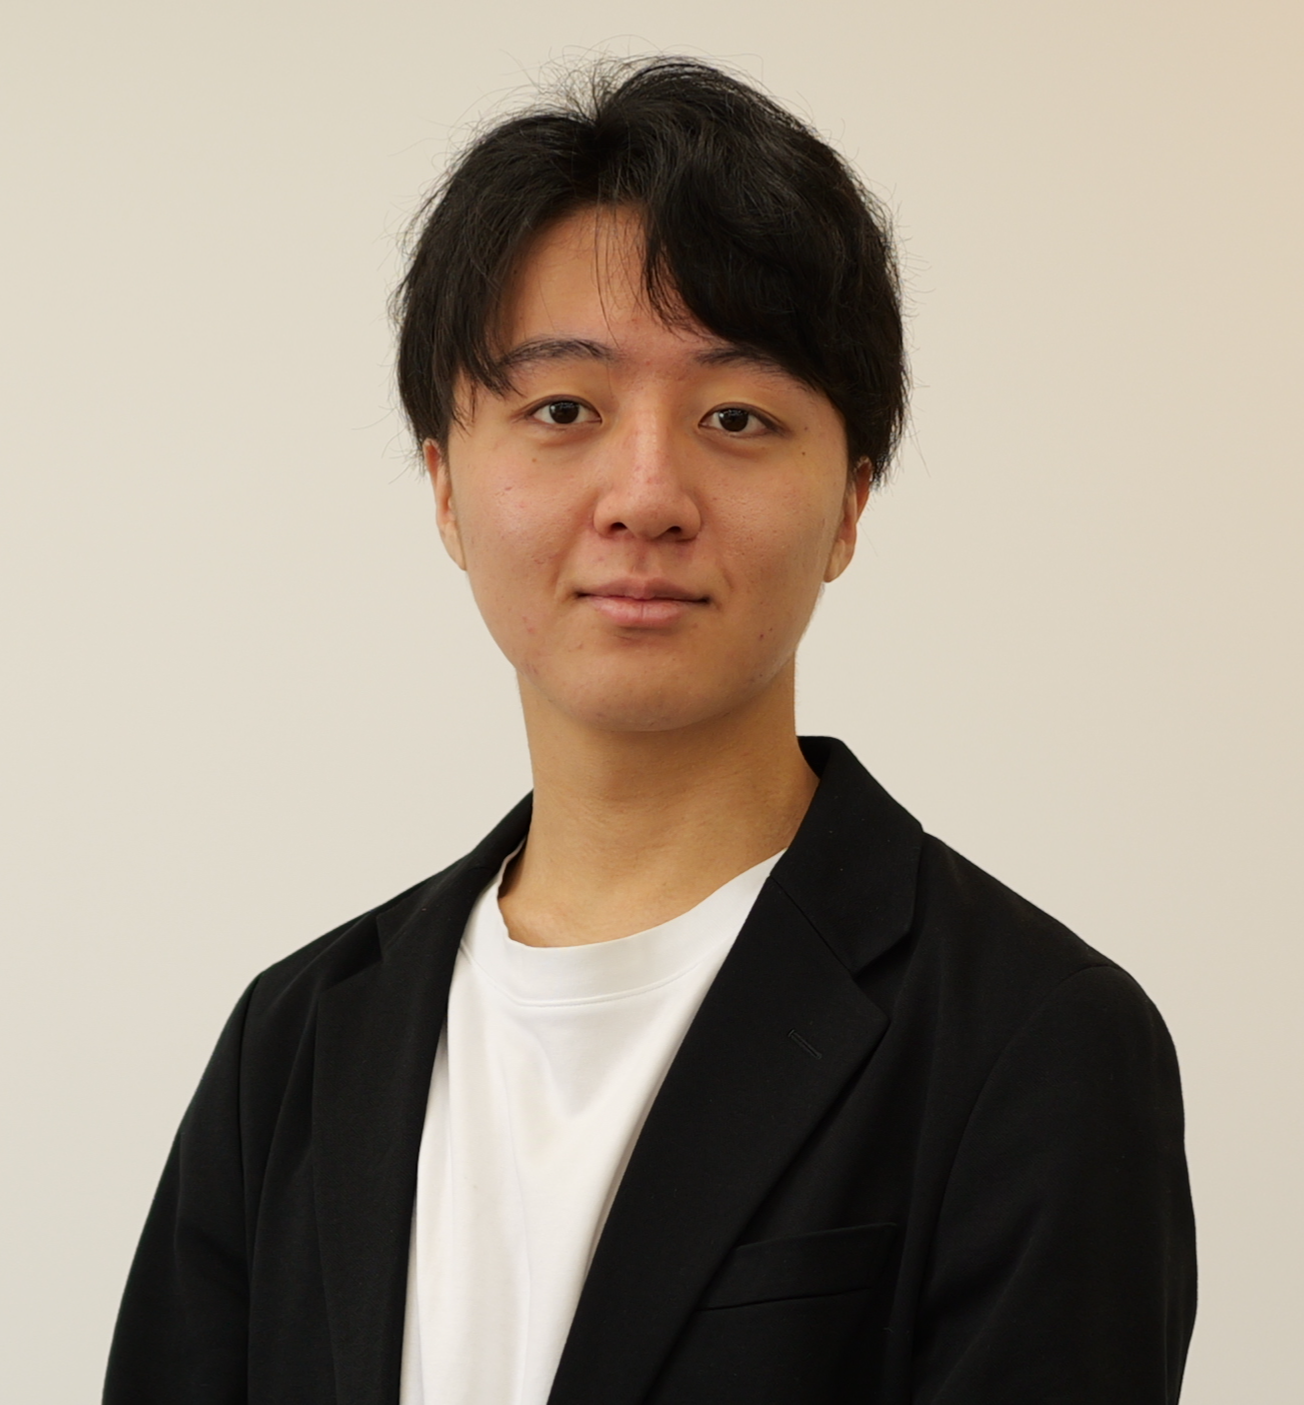
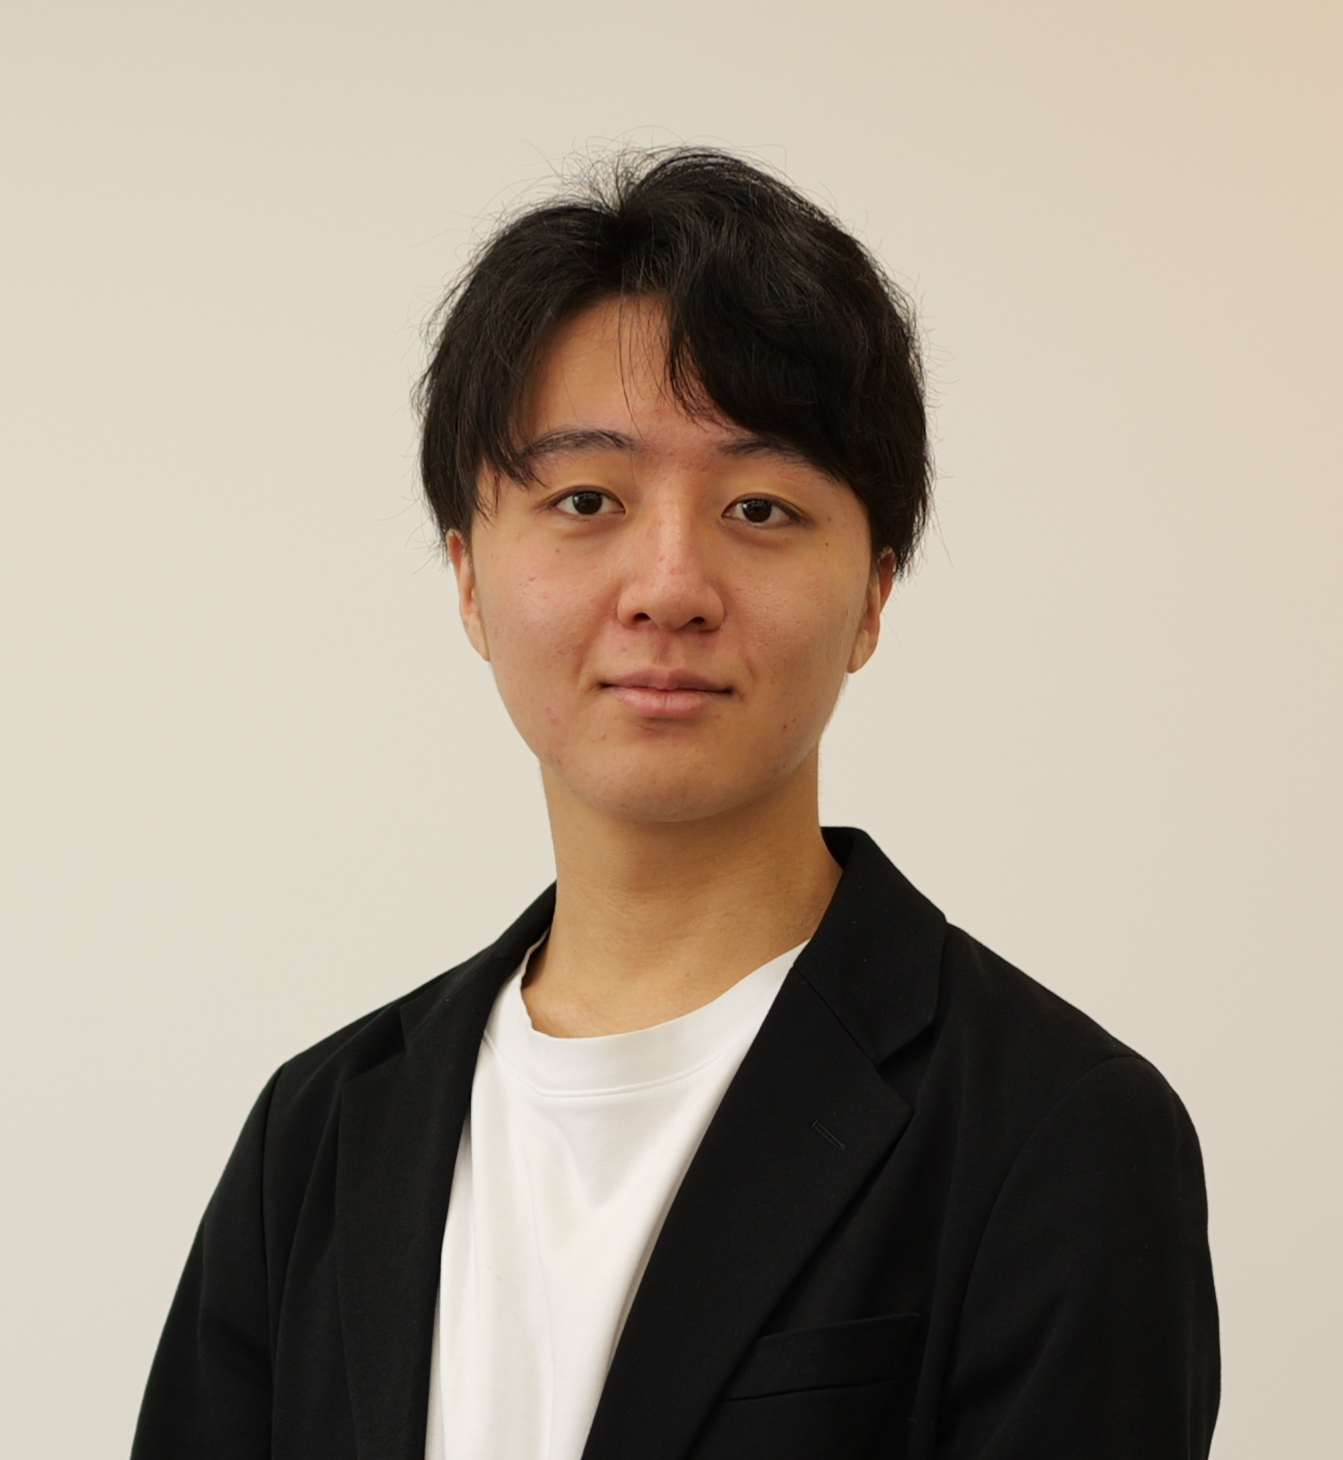
隠しコマンド追加

Changed region(s): [[0.0613, 0.0306, 0.9202, 1.0]]

diff --git a/src/components/Member/StaffModal.jsx b/src/components/Member/StaffModal.jsx
@@ -1,8 +1,58 @@
 // src/components/Member/StaffModal.jsx
-import React from 'react';
+import React, { useEffect, useState } from 'react';
 import './StaffModal.css';
 
 const StaffModal = ({ staff, onClose }) => {
+  const [secretUnlocked, setSecretUnlocked] = useState(false);
+  const [keySequence, setKeySequence] = useState([]);
+  
+  // 隠しコマンド: ↑↑↓↓←→←→NR
+  const secretCode = [
+    'ArrowUp', 'ArrowUp', 'ArrowDown', 'ArrowDown',
+    'ArrowLeft', 'ArrowRight', 'ArrowLeft', 'ArrowRight',
+    'KeyN', 'KeyR'
+  ];
+
+  useEffect(() => {
+    // 中楯さん（id: 1）のモーダルの時のみキーボードイベントリスナーを追加
+    if (staff && staff.id === 1) {
+      const handleKeyDown = (event) => {
+        const newSequence = [...keySequence, event.code];
+        
+        // シーケンスが長すぎる場合は先頭を削除
+        if (newSequence.length > secretCode.length) {
+          newSequence.shift();
+        }
+        
+        setKeySequence(newSequence);
+        
+        // 隠しコマンドと一致するかチェック
+        if (newSequence.length === secretCode.length) {
+          const isMatch = newSequence.every((key, index) => key === secretCode[index]);
+          if (isMatch) {
+            setSecretUnlocked(true);
+            // 成功時の効果音やアニメーションをここに追加可能
+          }
+        }
+      };
+
+      document.addEventListener('keydown', handleKeyDown);
+      
+      // クリーンアップ関数
+      return () => {
+        document.removeEventListener('keydown', handleKeyDown);
+      };
+    }
+  }, [staff, keySequence]);
+
+  // モーダルが閉じられる時やスタッフが変更される時にリセット
+  useEffect(() => {
+    return () => {
+      setSecretUnlocked(false);
+      setKeySequence([]);
+    };
+  }, [staff]);
+
   if (!staff) return null;
 
   const formatDescription = (desc) => {
@@ -37,6 +87,16 @@ const StaffModal = ({ staff, onClose }) => {
     });
 
     return <div>{elements}</div>;
+  };
+
+  // 表示する説明文を決定
+  const getDisplayDescription = () => {
+    // 中楯さん（id: 1）で隠しコマンドが有効な場合のみ longDescription を表示
+    if (staff.id === 1 && secretUnlocked && staff.longDescription) {
+      return staff.longDescription;
+    }
+    // それ以外は通常の description を表示
+    return staff.description;
   };
 
   return (
@@ -78,8 +138,54 @@ const StaffModal = ({ staff, onClose }) => {
             )}
 
             <div className="staff-modal-description">
-              {formatDescription(staff.longDescription || staff.description)}
+              {formatDescription(getDisplayDescription())}
             </div>
+
+            {/* 隠しコマンド成功時のGO!ボタン表示 */}
+            {staff.id === 1 && secretUnlocked && (
+              <div style={{ 
+                marginTop: '20px', 
+                textAlign: 'center'
+              }}>
+                <style>
+                  {`
+                    @keyframes flashingButton {
+                      0% { opacity: 1; }
+                      50% { opacity: 0.3; }
+                      100% { opacity: 1; }
+                    }
+                  `}
+                </style>
+                <button 
+                  onClick={() => window.open('http://ginyu.fuis.u-fukui.ac.jp/members/2024/nakadate/', '_blank')}
+                  style={{
+                    backgroundColor: 'black',
+                    color: '#4caf50',
+                    border: 'none',
+                    padding: '20px 50px',
+                    borderRadius: '25px',
+                    fontSize: '24px',
+                    fontWeight: 'bold',
+                    cursor: 'pointer',
+                    transition: 'all 0.3s ease',
+                    boxShadow: '0 3px 10px rgba(0, 0, 0, 0.3)',
+                    animation: 'flashingButton 1s infinite'
+                  }}
+                  onMouseOver={(e) => {
+                    e.target.style.backgroundColor = '#333333';
+                    e.target.style.transform = 'translateY(-2px)';
+                    e.target.style.animation = 'none';
+                  }}
+                  onMouseOut={(e) => {
+                    e.target.style.backgroundColor = 'black';
+                    e.target.style.transform = 'translateY(0)';
+                    e.target.style.animation = 'flashingButton 1s infinite';
+                  }}
+                >
+                  GO!
+                </button>
+              </div>
+            )}
           </div>
         </div>
 

diff --git a/src/pages/CompanyPage.jsx b/src/pages/CompanyPage.jsx
@@ -36,7 +36,7 @@ const CompanyPage = () => {
   const characterRef = useRef(null);
   const newsRef = useRef(null);
   const recruitRef = useRef(null); // refは念のため残しておく
-  {/*const contactRef = useRef(null);*/ }
+  const contactRef = useRef(null); // Contactのref復活
 
   /**
    * Member セクション内のサブセクションにスクロールする関数
@@ -85,7 +85,7 @@ const CompanyPage = () => {
       news: newsRef,
       // recruitのマッピングは削除しましたが、後から復活できるようにコメントアウトしておくこともできます
       // recruit: recruitRef,
-      /*contact: contactRef*/
+      contact: contactRef // Contactのマッピング復活
     };
 
     // 指定されたセクションに対応するrefを取得
@@ -156,7 +156,10 @@ const CompanyPage = () => {
         <News ref={newsRef} />
       </section>
       {/* Recruitコンポーネントを削除 */}
-      {/* Contactコンポーネントを削除 */}
+      {/* Contactコンポーネント復活 */}
+      <section className="section section-gray">
+        <Contact ref={contactRef} />
+      </section>
       <Footer />
     </div>
   );

diff --git a/src/data/professionalData.js b/src/data/professionalData.js
@@ -15,7 +15,7 @@ const professionalData = [
     romaji: 'Nakadate Ryonosuke',
     position: '技術開発',
     //description: 'AIと教育の融合を目指すテクノロジスト',
-    //longDescription: '教育系AIシステムの開発に携わり、子どもたちの学びをテクノロジーでサポートすることに情熱を注いでいます。\n福井大学情報工学科出身。\n\n新しい技術を教育現場に活用し、すべての子どもたちが自分らしく学べる環境づくりを目指しています。',
+    //longDescription: 'http://ginyu.fuis.u-fukui.ac.jp/members/2024/nakadate/',
     image: RYO,
     hoverImage: RYO2,
   },

diff --git a/src/components/Header/Navigation.jsx b/src/components/Header/Navigation.jsx
@@ -118,8 +118,8 @@ const Navigation = ({ isOpen, isMobile, activeNav, setActiveNav, handleNavClick,
           </a>
         </li>
 
-        {/* Contactメニュー */}
-        {/*<li
+        {/* Contact Menu - 復活 */}
+        <li
           className="nav-item nav-contact"
           onMouseEnter={() => handleMouseEnter('contact')}
           onMouseLeave={() => handleMouseLeave('contact')}
@@ -134,7 +134,7 @@ const Navigation = ({ isOpen, isMobile, activeNav, setActiveNav, handleNavClick,
           >
             Contact
           </a>
-        </li>*/}
+        </li>
       </ul>
     </nav>
   );

diff --git a/src/components/Recruit/Member/RecruitMember.css b/src/components/Recruit/Member/RecruitMember.css
@@ -9,7 +9,8 @@
 }
 
 .recruit-member-item {
-  background-color: #e3f2fd;
+  background-color: #f8fbff;
+  ;
   border-radius: 12px;
   box-shadow: 0 2px 15px rgba(0, 0, 0, 0.05);
   padding: 30px;
@@ -91,7 +92,7 @@
   .recruit-member-item {
     padding: 20px;
   }
-  
+
   .recruit-member-item h3 {
     font-size: 1.5rem;
   }

diff --git a/src/pages/CompanyPage.css b/src/pages/CompanyPage.css
@@ -53,7 +53,7 @@ body {
 
 /* 灰色背景セクション */
 .section-gray {
-  background-color: #e3f2fd;
+  background-color: #ebf8ff;
 }
 
 .section h2 {

diff --git a/src/components/Recruit/Character/RecruitCharacter.css b/src/components/Recruit/Character/RecruitCharacter.css
@@ -1,5 +1,5 @@
 .recruit-character-section {
-  background-color: #e3f2fd;
+  background-color:#ebf8ff;
 }
 
 .character-values {
